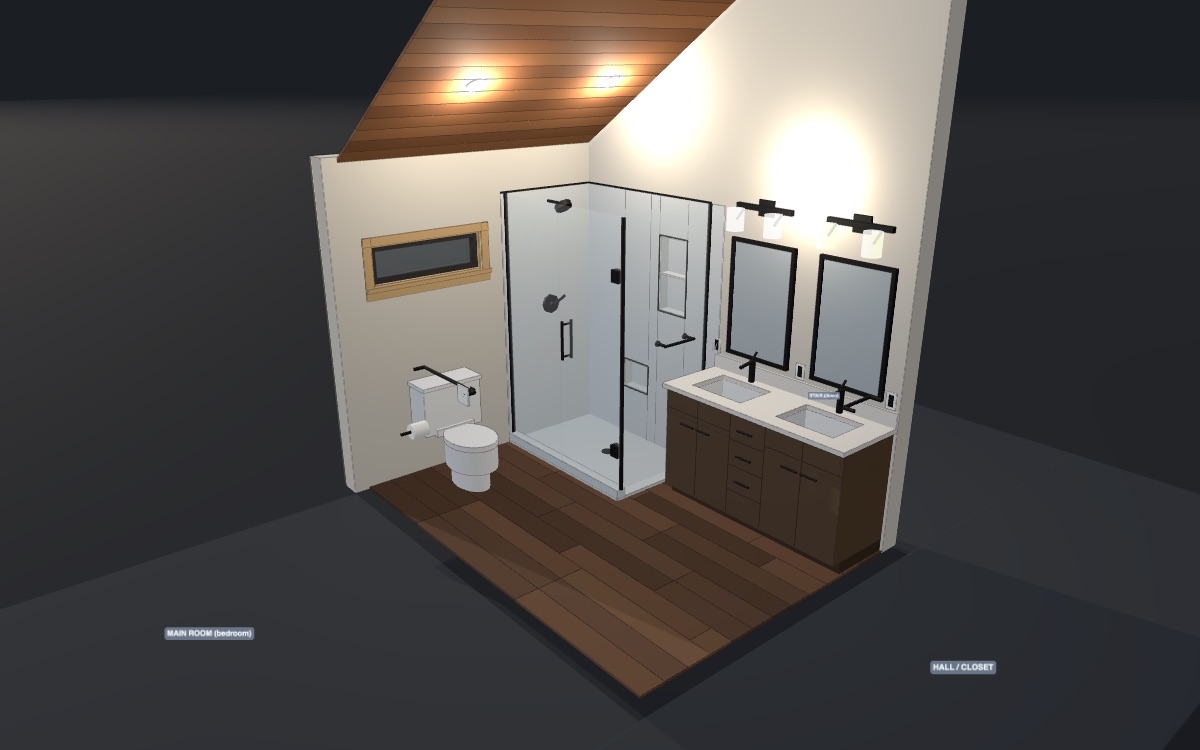
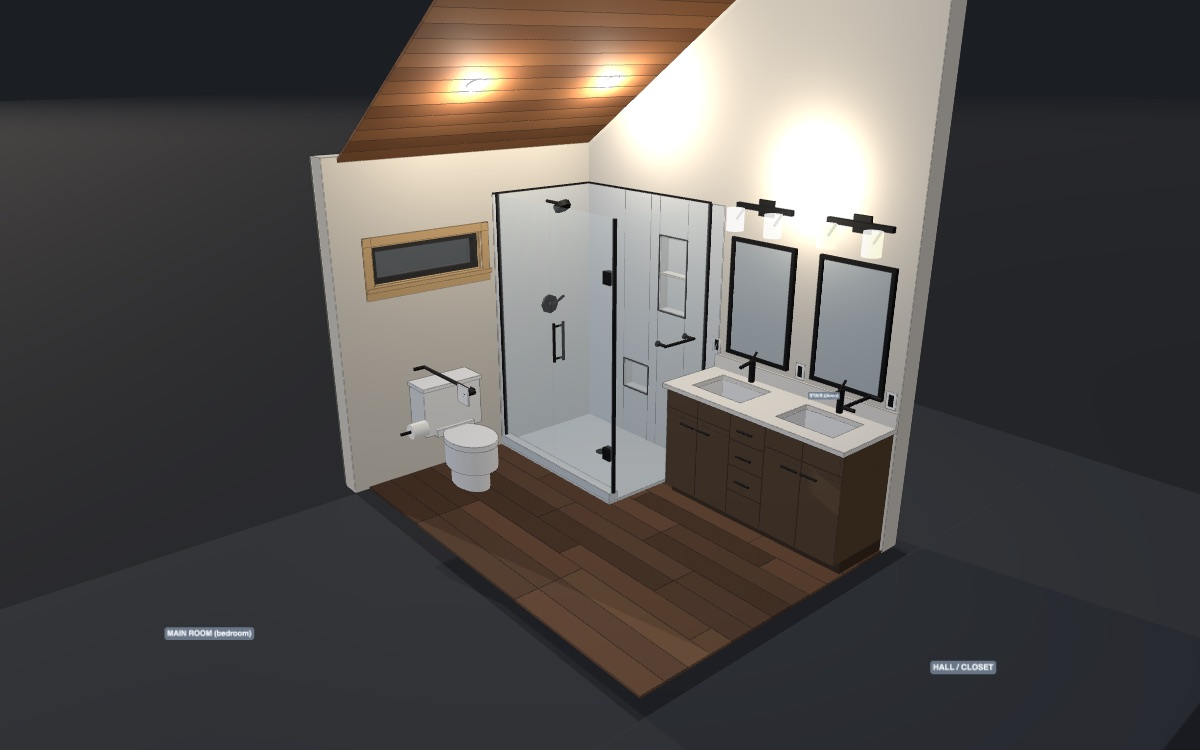
feat: plumbing rough-in layers in the guest bath drawing

Changed region(s): [[0.4008, 0.2453, 0.5242, 0.6747]]

diff --git a/main-bath-option-1.html b/main-bath-option-1.html
@@ -61,7 +61,7 @@
   <a class="panel" id="home" href="https://tredfield.github.io/138-tahoma-cabin/" title="Back to the list of drawings">&larr; All drawings</a>
   <div class="panel" id="header">
     <h1>Main bath &mdash; Option 1: glass shower, north-wall plumbing</h1>
-    <div class="sub">Valve wall removed; the shower grows to a 35 1/2" x 55 1/2" strip behind frameless glass: Moen UT3312 head and valve on the west wall (in the exterior wall with freeze protection, owner decision), Kohler Essential mirrors and Artifacts sconces as a two-mirror option, shaving foot rest (centre) and shampoo niche (by the door) in the stair wall, a 5" cleaning slot to the vanity end, entry door on the south glass (owner 2026-09-09). Toilet and drains unchanged. 138 Tahoma St E, Packwood &middot; one of five layout options for the upper-floor <b>MAIN BATH</b> that remove the framed wall between shower and vanity. Room shell, window F, door 13 RO and the 60" vanity are as built / as drawn in <code>outputs/main-bath-3d.html</code>; everything else is this option's proposal. <b>Orange = assumed, not on any sheet, or flagged for the engineer / plumber.</b> <b>Design option for owner review &mdash; not published. Not engineered &mdash; do not build from this.</b> Spec with clearance table: <code>outputs/main-bath-options/opt-1-glass-north-plumbing-3d-spec.md</code>. Drag to orbit &middot; scroll to zoom &middot; right-drag to pan. &middot; arrow keys (or WASD) walk, PageUp/PageDown change eye height, Shift runs.</div>
+    <div class="sub">Valve wall removed; the shower takes a 38 1/2" x 55 1/2" strip behind frameless glass &mdash; <b>deepened 3" on 2026-09-13</b> to 35 1/8" of flat floor inside the curb (36 5/8" glass CL to back tile), the most window F's casing allows: Moen UT3312 head and valve on the west wall (in the exterior wall with freeze protection, owner decision), Kohler Essential mirrors and Artifacts sconces as a two-mirror option, shaving foot rest (centre) and shampoo niche (by the door) in the stair wall, a 5" cleaning slot to the vanity end, entry door on the south glass (owner 2026-09-09). Toilet and drains unchanged. 138 Tahoma St E, Packwood &middot; one of five layout options for the upper-floor <b>MAIN BATH</b> that remove the framed wall between shower and vanity. Room shell, window F, door 13 RO and the 60" vanity are as built / as drawn in <code>outputs/main-bath-3d.html</code>; everything else is this option's proposal. <b>Orange = assumed, not on any sheet, or flagged for the engineer / plumber.</b> <b>Design option for owner review &mdash; not published. Not engineered &mdash; do not build from this.</b> Spec with clearance table: <code>outputs/main-bath-options/opt-1-glass-north-plumbing-3d-spec.md</code>. Drag to orbit &middot; scroll to zoom &middot; right-drag to pan. &middot; arrow keys (or WASD) walk, PageUp/PageDown change eye height, Shift runs.</div>
   </div>
   <div class="panel" id="legend">
     <h2>Legend</h2>
@@ -75,6 +75,8 @@
     <div class="lg"><span class="sw" style="background:#f5f5f3"></span>Plumbing fixtures</div>
     <div class="lg"><span class="sw" style="background:#1c1c1c"></span>Matte black hardware / trim</div>
     <div class="lg"><span class="sw" style="background:#a9cfe3"></span>Glass</div>
+    <div class="lg"><span class="sw" style="background:#e0483c"></span>Layout centrelines (toilet, shower)</div>
+    <div class="lg"><span class="sw" style="background:#74d0f1"></span>Plumbing rough-in (Show &rarr; Plumbing)</div>
     <div class="lg"><span class="sw" style="background:#c9a46a"></span>Framing (toggle)</div>
     <div class="lg"><span class="sw" style="background:#e07b20"></span>Not on record / sheets disagree</div>
     <div class="lg"><span class="sw" style="background:#5e646c"></span>House context (faded)</div>
@@ -90,6 +92,8 @@
       <label><input type="checkbox" data-layer="floor" checked> LVP floor</label>
       <label><input type="checkbox" data-layer="shower" checked> Shower</label>
       <label><input type="checkbox" data-layer="glass" checked> Glass</label>
+      <label><input type="checkbox" data-layer="cl" checked> Centrelines</label>
+      <label><input type="checkbox" data-layer="plumb"> Plumbing rough-in</label>
       <label><input type="checkbox" data-layer="vanity" checked> Vanity + mirror</label>
       <label><input type="checkbox" data-layer="fixtures" checked> Toilet + accessories</label>
       <label><input type="checkbox" data-layer="elec" checked> Lights + devices</label>
@@ -1574,7 +1578,7 @@ const D = {
   WIN_X1: -41.25, WIN_X2: -4.75, WIN_SILL: 61.5, WIN_HEAD: 73.5,        // window F RO 36 1/2" x 12", sill 61 1/2" -- FIELD 2026-09-08 (A03 drew 3'-0", A04 4'-6")
   DOOR_Z1: 77.0, DOOR_Z2: 107.5, DOOR_HEAD: 84.5, DOOR_W: 30, DOOR_T: 1.375,   // door 13 RO
   // shower
-  SH_X1: 3.0, CURB_W: 3.0, GLASS_X: 4.5, GLASS_H: 79, TILE_H: 84,
+  SH_X1: 0.0, CURB_W: 3.0, GLASS_X: 1.5, GLASS_H: 79, TILE_H: 84,   // owner 2026-09-13: curb line moved 3" south (was 3.0, glass 4.5). Stop is window F's alder casing at x -2 1/4
   // vanity
   VAN_X1: 17.5, CTR_X1: 16.0, VAN_Z1: 66.75, VAN_Z2: 126.75, CTR_Y: 34.75, CTR_T: 1.25,   // 21" cabinet / 22 1/2" counter off the stair wall; 60" cabinet centered in the 61 1/2" zone
   SINK_Z: [81.75, 111.75], SINK_L: 18, SINK_W: 13, SINK_XC: 27.625, FAUCET_X: 36.125,
@@ -1942,19 +1946,56 @@ function showerTrim(x, z, nx, nz, zHead, xHead, L = 'shower') {
   bar(V(hx + nx * 0, 80, hz + nz * 0), V(hx + nx * 7.5, 80, hz + nz * 7.5), 0.5, M.black, L); bar(V(hx + nx * 7.5, 80, hz + nz * 7.5), V(hx + nx * 8.6, 78.6, hz + nz * 8.6), 3.4, M.black, L);   // arm + head
   bar(P(0, 48, 8), P(1.2, 48, 8), 0.6, M.black, L); bar(P(1.2, 48, 8), P(1.2, 72, 8), 0.4, M.black, L);   // slide bar for a handheld
 }
+// ---- layout centrelines (lead, 2026-09-13, owner request) -----------------------------------------------------------
+// Red so they read as layout marks, not as the orange "not on record" flag (owner 2026-09-10: for interiors, flag by
+// label, not by colour). Own layer 'cl' so the Centrelines checkbox toggles them independently of Dimensions.
+const CL_MAT = new THREE.MeshStandardMaterial({ color: 0xe0483c, roughness: .55, emissive: 0x4a0d08, emissiveIntensity: .8 });
+// centreLine(x1, z1, x2, z2, y): long-short-long dashed line on a floor surface. y must clear the surface it lies on
+// (room LVP top = 0.6, shower tiled mud bed top = 1.5), or the dashes disappear inside the slab.
+function centreLine(x1, z1, x2, z2, y = 1.0, L = 'cl') {
+  const dx = x2 - x1, dz = z2 - z1, len = Math.hypot(dx, dz), ux = dx / len, uz = dz / len;
+  const P = d => V(x1 + ux * d, y, z1 + uz * d);
+  const PAT = [7, 2.5, 1.5, 2.5];                                    // long dash, gap, short dash, gap -- repeats
+  for (let d = 0, i = 0; d < len - 0.01; i++) {
+    const seg = Math.min(PAT[i % 4], len - d);
+    if (i % 2 === 0) bar(P(d), P(d + seg), 0.4, CL_MAT, L);
+    d += seg;
+  }
+}
+// clTag(text, x, y, z): small red call-out for a centreline, on the same 'cl' layer
+function clTag(text, x, y, z) { label(text, x, y, z, { layer: 'cl', size: 24, bg: 'rgba(56,12,9,.88)', color: '#ffb3ad' }); }
+// ---- plumbing rough-in layer (owner request 2026-09-13: a Show option the plumber can read on its own) ---------------
+// Same geometry as dim(), but on the 'plumb' layer with a blue label, so ticking "Plumbing rough-in" and leaving
+// "Dimensions" off gives a clean sheet: drain, valve, head, closet flange and lav centrelines and nothing else.
+const PDIM_MAT = new THREE.LineBasicMaterial({ color: 0x74d0f1, transparent: true, opacity: .95 });
+function pdim(p1, p2, text, off = V(0, 0, 0), tickDir = V(0, 1, 0), tick = 4) {
+  const a = p1.clone().add(off), b = p2.clone().add(off), grp = new THREE.Group();
+  grp.add(new THREE.LineSegments(new THREE.BufferGeometry().setFromPoints([a, b,
+    a.clone().addScaledVector(tickDir, tick), a.clone().addScaledVector(tickDir, -tick),
+    b.clone().addScaledVector(tickDir, tick), b.clone().addScaledVector(tickDir, -tick),
+    p1, a, p2, b]), PDIM_MAT));
+  reg(grp, 'plumb');
+  const mid = a.clone().add(b).multiplyScalar(0.5).addScaledVector(tickDir, tick + 3);
+  label(text, mid.x, mid.y, mid.z, { layer: 'plumb', size: 26, bg: 'rgba(8,38,52,.90)', color: '#9fe3ff' });
+  return grp;
+}
+// pnote(text, x, y, z): blue call-out on the same 'plumb' layer
+function pnote(text, x, y, z) { label(text, x, y, z, { layer: 'plumb', size: 24, bg: 'rgba(8,38,52,.90)', color: '#9fe3ff' }); }
 
-// ---- OPTION 1 / 4 shower: 32" x 54 3/4" mud-set tile floor, glass on the south + east lines; HEAD and VALVE (Moen UT3312) on the west (exterior)
+// ---- OPTION 1 / 4 shower: mud-set tile floor, glass on the south + east lines. The south curb line is D.SH_X1 per option
+//      (opt 1: 0.0 = 35 1/8" of flat floor inside the curb, 36 5/8" glass CL to back tile, owner 2026-09-13; opt 4: 3.0 = 32 1/8" / 33 5/8"); HEAD and VALVE (Moen UT3312) on the west (exterior)
 //      wall -- owner 2026-09-09 accepts the valve body + riser in the 2x6 stud cavity with freeze protection (no chase); east glass at z 61.5 leaves a 5" cleaning slot to the
 //      vanity end panel; foot rest (centre bay) + shampoo niche (bay by the door) in the stair wall (owner 2026-09-09) --
 {
-  const L = 'shower', x1 = 3.0, x2 = D.WN_IN, z1 = D.EXT_IN, z2 = 61.5, gx = 4.5, H = 84, zc = z1, zf = z1 + 0.4;   // no chase: zf = tile face of the west wall
+  const L = 'shower', x1 = D.SH_X1, x2 = D.WN_IN, z1 = D.EXT_IN, z2 = 61.5, gx = D.GLASS_X, H = 84, zc = z1, zf = z1 + 0.4;   // no chase: zf = tile face of the west wall
+  const tf = x2 - 0.4, cx = (x1 + D.CURB_W + tf) / 2, cz = (zf + z2 - 0.19) / 2;   // tf = stair-wall tile face; (cx, cz) = centre of the FLAT floor inside the curb -- drain and trim both sit on it
   box(x1, x2, 0, 1.5, zc, z2, M.shTile, L);                                   // tiled floor (mud bed)
-  box(x1, x1 + 3, 0, 4, zc, z2, M.shTile, L);                                  // 3" curb under the south glass
-  cyl(22, 35, 1.5, 1.7, 2, M.black, L);                                        // 2" drain, joist bay 13.5..29.5
+  box(x1, x1 + D.CURB_W, 0, 4, zc, z2, M.shTile, L);                           // 3" curb under the south glass
+  cyl(cx, cz, 1.5, 1.7, 2, M.black, L);                                        // 2" drain, centred on the flat floor; joist bay 13.5..29.5
   box(x1, x2, 0, H, z1, zf, M.shTile, L);                                      // tile: west wall
   // stair-wall niches (owner 2026-09-09): shampoo 12" x 24" (y 48-72) with a shelf, foot rest 12" x 10" (y 18-28); 3 1/2" deep,
   // each inside one 14 1/2" stud bay (studs at z 6.75 + 16n) -- the stair wall is a shear wall, so no stud is cut
-  const NZ = [[40.75, 52.75, 48, 72, true], [24.75, 36.75, 18, 28, false]], xb = x2 + 3.5, tf = x2 - 0.4;   // shampoo in the bay by the door, foot rest in the centre bay
+  const NZ = [[40.75, 52.75, 48, 72, true], [24.75, 36.75, 18, 28, false]], xb = x2 + 3.5;   // shampoo in the bay by the door, foot rest in the centre bay
   box(tf, x2, 0, H, z1, 24.75, M.shTile, L); box(tf, x2, 0, H, 36.75, 40.75, M.shTile, L); box(tf, x2, 0, H, 52.75, z2, M.shTile, L);   // tile: north wall, split
   box(tf, x2, 0, 18, 24.75, 36.75, M.shTile, L); box(tf, x2, 28, H, 24.75, 36.75, M.shTile, L);
   box(tf, x2, 0, 48, 40.75, 52.75, M.shTile, L); box(tf, x2, 72, H, 40.75, 52.75, M.shTile, L);
@@ -1970,18 +2011,19 @@ function showerTrim(x, z, nx, nz, zHead, xHead, L = 'shower') {
   label('Foot rest 12" x 10" x 3 1/2", bottom 18", centre bay\n(alt. 6" projecting tiled block if 3 1/2" feels shallow)', 36, 34, 30.75, NOTE);
   box(x2 - 0.4, x2, 0, H, z2, D.VAN_Z1, M.shTile, L);                          // tile carried across the 5" slot to the vanity end panel
   box(x1, x2, H, H + 0.5, z1, zf + 0.1, M.black, L, false); box(x2 - 0.5, x2, H, H + 0.5, z1, z2, M.black, L, false);   // edge trim
-  // glass: south line -- fixed z 6.6..33 + 28" door z 33.4..61.1 hinged on the corner post at z 61.5; east line -- fixed x 3.4..38.1
+  // glass: south line -- fixed z 6.6..33 + 28" door z 33.4..61.1 hinged on the corner post at z 61.5, both standing on the 4" curb;
+  // east line -- one fixed panel x (x1+0.4)..38.1. There is NO curb on the east line, so that panel runs down to the tiled floor (y 1.5), not to curb top.
   glassPanel(gx - 0.19, gx + 0.19, 4, H, zf + 0.2, 33); glassPanel(gx - 0.19, gx + 0.19, 4, H, 33.4, z2 - 0.6);
-  glassPanel(x1 + 0.4, x2 - 0.4, 4, H, z2 - 0.19, z2 + 0.19);
+  glassPanel(x1 + 0.4, x2 - 0.4, 1.5, H, z2 - 0.19, z2 + 0.19);
   box(gx - 0.5, gx + 0.5, 4, H, zf, zf + 0.6, M.black, 'glass');                           // wall channel, window wall
-  box(x2 - 1.0, x2 - 0.4, 4, H, z2 - 0.5, z2 + 0.5, M.black, 'glass');                     // wall channel, north end of the east panel
+  box(x2 - 1.0, x2 - 0.4, 1.5, H, z2 - 0.5, z2 + 0.5, M.black, 'glass');                   // wall channel, north end of the east panel
   cyl(gx, z2, 4, H, 0.6, M.black, 'glass');                                                // corner post
   for (const y of [14, 66]) box(gx - 1.1, gx + 1.1, y, y + 3.5, z2 - 3.6, z2 - 0.6, M.black, 'glass');   // hinges at the post
   for (const sx of [-1, 1]) { bar(V(gx + sx * 1.7, 38, 36.5), V(gx + sx * 1.7, 50, 36.5), 0.45, M.black, 'glass'); for (const y of [39, 49]) bar(V(gx, y, 36.5), V(gx + sx * 1.7, y, 36.5), 0.35, M.black, 'glass'); }   // pull at the free edge
-  // west-wall tile face (z = zf): valve x 21 y 46, head x 21 y 80 (arm 7.5") -- Moen UT3312, facing east
-  bar(V(21, 46, zf), V(21, 46, zf + 1.0), 3.2, M.black, L); bar(V(21, 46, zf + 1.0), V(21, 46, zf + 2.2), 0.9, M.black, L); bar(V(21, 46, zf + 2.2), V(25.5, 48.5, zf + 2.6), 0.45, M.black, L);   // valve + lever
-  bar(V(21, 80, zf), V(21, 80, zf + 7.5), 0.5, M.black, L); bar(V(21, 80, zf + 7.5), V(21, 78.6, zf + 8.6), 2.75, M.black, L);   // head (UT3312 single-function)
-  label('Moen UT3312 Belfield M-CORE 3-Series trim (owner 2026-09-09): head + valve on the WEST (exterior) wall.\nOwner accepts the valve body + riser in the 2x6 cavity: strap to the warm side of the studs, keep the 2" closed-cell\n+ batt behind, add a blow-out fitting for winterizing (UPC 312.6). Shower-only trim: a handheld would need a UT3313 transfer valve', 21, 92, zf, FLAG);
+  // west-wall tile face (z = zf): valve and head both on the pan's depth centreline cx (y 46 / y 80, arm 7.5") -- Moen UT3312, facing east
+  bar(V(cx, 46, zf), V(cx, 46, zf + 1.0), 3.2, M.black, L); bar(V(cx, 46, zf + 1.0), V(cx, 46, zf + 2.2), 0.9, M.black, L); bar(V(cx, 46, zf + 2.2), V(cx + 4.5, 48.5, zf + 2.6), 0.45, M.black, L);   // valve + lever
+  bar(V(cx, 80, zf), V(cx, 80, zf + 7.5), 0.5, M.black, L); bar(V(cx, 80, zf + 7.5), V(cx, 78.6, zf + 8.6), 2.75, M.black, L);   // head (UT3312 single-function)
+  label('Moen UT3312 Belfield M-CORE 3-Series trim (owner 2026-09-09): head + valve on the WEST (exterior) wall.\nOwner accepts the valve body + riser in the 2x6 cavity: strap to the warm side of the studs, keep the 2" closed-cell\n+ batt behind, add a blow-out fitting for winterizing (UPC 312.6). Shower-only trim: a handheld would need a UT3313 transfer valve', cx, 92, zf, FLAG);
   // through-glass 12" hand-towel bar on the room side of the east panel, x 18..30, y 46 -- aligned with the hall-wall bar (owner 2026-09-09);
   // this stretch of glass faces the vanity end panel across the 5" slot, so the towel hangs 2" off the cabinet below counter height
   for (const px of [18.5, 29.5]) { bar(V(px, 46, z2 - 0.7), V(px, 46, z2 + 3.0), 0.5, M.black, 'glass'); bar(V(px, 46, z2 - 0.7), V(px, 46, z2 - 0.2), 0.95, M.black, 'glass'); }
@@ -1989,6 +2031,7 @@ function showerTrim(x, z, nx, nz, zHead, xHead, L = 'shower') {
   label('Through-glass 12" hand-towel bar for the left sink, aligned with the hall-wall bar (owner 2026-09-09)\nholes drilled before tempering -- order with the panel; towel hangs in the 5" slot, 2" off the cabinet', 24, 40, z2 + 4, FLAG);
   arc(gx, z2, 28, 180, 270);                                                    // door swing, out toward the room centre
   label('5" cleaning slot between the glass and the vanity end panel\n(owner 2026-09-09); stair-wall tile runs through it', 22, 88, 64, NOTE);
+  label('The east glass line has NO curb -- it stands in a channel on the tiled floor.\nThe mud bed must slope away from it to the drain and the slot needs a\nwaterproof edge where the tile meets the LVP. Detail not drawn -- tile setter', 12, 22, z2 + 6, FLAG);
 }
 
 // ---- vanity: 60" double, plywood cabinet (0661), counter + undermount sinks, Moen 6402, mirror, Bellevue bar -------
@@ -2144,7 +2187,8 @@ function showerTrim(x, z, nx, nz, zHead, xHead, L = 'shower') {
 
 // ---- labels -----------------------------------------------------------------------------------------------------------
 label('OPTION 1 -- glass shower, north-wall plumbing\nvalve wall removed; toilet + drains unchanged', -10, 76, 80);
-label('Shower 32" x 54 3/4" inside, mud-set tile\n1,745 sq in; 30" circle fits; glass to 7\'-0"', 22, 96, 30, NOTE);
+label('Shower deepened 3" on 2026-09-13: 35 1/8" of flat floor inside the curb (36 5/8" glass CL to back tile)\nx 54 3/4" long, mud-set tile; 1,927 sq in; well over M01 note 3\'s 30" x 30" rough pan; glass to 7\'-0"', 22, 96, 30, NOTE);
+label('The 3" came off the window wall: the curb line moves from x 3 to x 0, leaving 2 1/4" of painted\nwall to window F\'s alder casing (casing north edge x -2 1/4). That reveal is the limit -- FIELD-VERIFY\nthe casing width before the tile setter sets the curb', 0, 30, 16, FLAG);
 label('Supplies rise in this 2x6 stair wall beside the lav supplies and cross into the\nwest wall at the corner (drilled studs, 1/2" PEX); drain in bay 13.5..29.5', 34, 60, 46, NOTE);
 label('Door on the south glass, hinged at the corner post,\nopens out toward the room centre (26" clear)', 4.5, 60, 52, NOTE);
 label('Window F  RO 36 1/2" x 12", sill 61 1/2" (field)\noutside the shower; tempered recommended (~63" bottom edge)', -23, 80, 3, FLAG);
@@ -2160,18 +2204,70 @@ label('1x6 T&G ceiling, 8:12 dormer -- shower open to it above 7\'-0"', -4, yc(6
 dim(V(D.WS_IN, 2, D.WE_IN + 8), V(D.WN_IN, 2, D.WE_IN + 8), '7\'-3" clear', V(0, 0, 0), V(0, 1, 0));
 dim(V(D.WS_IN - 10, 2, D.EXT_IN), V(D.WS_IN - 10, 2, D.WE_IN), '10\'-1 1/2" clear', V(0, 0, 0), V(0, 1, 0));
 dim(V(D.WS_IN, 2, 20), V(D.WC_X, 2, 20), '25 1/2" WC CL to wall (min 15)', V(0, 0, 0), V(0, 1, 0));
-dim(V(D.WC_X, 2, 20), V(4.5, 2, 20), '27 1/2" WC CL to glass (min 15)', V(0, 0, 0), V(0, 1, 0));
+dim(V(D.WC_X, 2, 42), V(D.SH_X1, 2, 42), '23" WC CL to curb face (min 15, NKBA 18)', V(0, 0, 0), V(0, 1, 0));
 dim(V(D.WC_X, 2, 34), V(D.WC_X, 2, D.DOOR_Z1), '43" in front of WC (min 24)', V(0, 0, 0), V(0, 1, 0));
-dim(V(6, 6, 36), V(37.9, 6, 36), '31.9" shower inside', V(0, 0, 0), V(0, 1, 0));
-dim(V(20, 6, 6.6), V(20, 6, 61.3), '54 3/4" shower inside', V(0, 0, 0), V(0, 1, 0));
+dim(V(D.SH_X1 + D.CURB_W, 6, 18), V(D.WN_IN - 0.4, 6, 18), '35 1/8" flat floor inside the curb', V(0, 0, 0), V(0, 1, 0));
+dim(V(D.GLASS_X, 6, 50), V(D.WN_IN - 0.4, 6, 50), '36 5/8" glass CL to back tile', V(0, 0, 0), V(0, 1, 0));
+dim(V(13, 6, 6.6), V(13, 6, 61.3), '54 3/4" shower inside', V(0, 0, 0), V(0, 1, 0));
 dim(V(30, 6, 61.7), V(30, 6, D.VAN_Z1), '5" slot', V(0, 0, 0), V(0, 1, 0));
 dim(V(37, 74, 40.75), V(37, 74, 52.75), 'niche 12"', V(0, 0, 0), V(0, 1, 0));
 dim(V(37, 48, 54.5), V(37, 72, 54.5), '24" (48"-72")', V(0, 0, 0), V(0, 0, 1));
 dim(V(37, 18, 23), V(37, 28, 23), 'foot rest 10" (18"-28")', V(0, 0, 0), V(0, 0, 1));
-dim(V(4.5, 6, 33.4), V(4.5, 6, 61.1), 'door 28" (26" clear, min 22)', V(0, 0, 0), V(0, 1, 0));
+dim(V(D.GLASS_X, 6, 33.4), V(D.GLASS_X, 6, 61.1), 'door 28" (26" clear, min 22)', V(0, 0, 0), V(0, 1, 0));
 dim(V(-14, 2, 96), V(D.CTR_X1, 2, 96), '30" in front of vanity (NKBA)', V(0, 0, 0), V(0, 1, 0));
 dim(V(D.CTR_X1 - 4, D.CTR_Y + 6, D.VAN_Z1), V(D.CTR_X1 - 4, D.CTR_Y + 6, D.VAN_Z2), '60"', V(0, 0, 0), V(0, 1, 0));
 dim(V(D.WIN_X2 + 8, 0, D.EXT_IN + 1), V(D.WIN_X2 + 8, D.WIN_SILL, D.EXT_IN + 1), 'sill 61 1/2"', V(0, 0, 0), V(0, 0, 1));
+
+// ---- layout centrelines (owner request 2026-09-13) -- their own 'cl' layer, so Show -> Centrelines toggles them
+//      independently of Dimensions. y clears the surface each one lies on: 0.9 over the LVP (top 0.6), 1.7 over the
+//      shower's tiled mud bed (top 1.5).
+const SHCX = (D.SH_X1 + D.CURB_W + D.WN_IN - 0.4) / 2;              // 20 9/16 -- centre of the flat floor, depth
+const SHCZ = (D.EXT_IN + 0.4 + 61.5 - 0.19) / 2;                    // 33 7/8  -- centre of the flat floor, length
+centreLine(D.WC_X, D.EXT_IN + 0.2, D.WC_X, 47, 0.9);                // toilet CL, run out past the bowl front
+centreLine(D.WC_X - 15, 18, D.WC_X + 15, 18, 0.9);                  // closet-flange CL: 12" rough-in off the finished wall (z 6 + 12)
+clTag('TOILET CL  x = -23 -- and it is also WINDOW F\'s CL\n25 1/2" off the bedroom wall, 23" to the shower curb face\ncross mark = closet flange, 12" rough-in off the finished wall', D.WC_X, 14, 50);
+centreLine(SHCX, D.EXT_IN + 0.6, SHCX, 61.1, 1.7);                  // shower CL, depth
+centreLine(D.SH_X1 + D.CURB_W + 0.3, SHCZ, D.WN_IN - 0.7, SHCZ, 1.7);   // shower CL, length
+clTag('SHOWER CL -- drain, head and valve are all on it\n(the head/valve moved 7/16" to land on it)', 32, 24, 17);
+bar(V(32, 22, 17), V(SHCX, 2.0, SHCZ), 0.13, CL_MAT, 'cl');                 // leader from the call-out down to the intersection
+
+// ---- plumbing rough-in (owner request 2026-09-13): own 'plumb' layer, OFF by default. Plumber's sheet =
+//      ?view=top&show=plumb  (Dimensions stays off, Centrelines stays on). Every tie is to a STUD face, because
+//      at rough-in there is no finish to measure from; every height is ABOVE SUBFLOOR.
+const STUD_N = D.WN_IN + 0.5, STUD_S = D.WS_IN - 0.5, STUD_W = D.EXT_STUD_IN, STUD_E = D.WE_IN + 0.5;   // x 39 / x -49 / z 5.5 / z 128
+pdim(V(SHCX, 3, SHCZ), V(STUD_N, 3, SHCZ), 'DRAIN  18 7/16" off stair-wall studs', V(0, 0, 0), V(0, 1, 0));
+pdim(V(SHCX, 3, STUD_W), V(SHCX, 3, SHCZ), 'DRAIN  28 3/8" off west-wall studs', V(0, 0, 0), V(0, 1, 0));
+pdim(V(D.WC_X, 3, STUD_W), V(D.WC_X, 3, 18), 'WC FLANGE  12 1/2" off west-wall studs (12" off finish)', V(0, 0, 0), V(0, 1, 0));
+pdim(V(STUD_S, 3, 18), V(D.WC_X, 3, 18), 'WC FLANGE  26" off partition studs', V(0, 0, 0), V(0, 1, 0));
+pdim(V(20, 3, D.SINK_Z[0]), V(20, 3, STUD_E), 'LAV 1  46 1/4" off hall-wall studs', V(0, 0, 0), V(0, 1, 0));
+pdim(V(20, 3, D.SINK_Z[1]), V(20, 3, STUD_E), 'LAV 2  16 1/4" off hall-wall studs', V(0, 0, 0), V(0, 1, 0));
+pdim(V(SHCX - 7, 0, D.EXT_IN + 1), V(SHCX - 7, 46, D.EXT_IN + 1), 'VALVE 46" a.s.f.', V(0, 0, 0), V(0, 0, 1));
+pdim(V(SHCX + 7, 0, D.EXT_IN + 1), V(SHCX + 7, 80, D.EXT_IN + 1), 'HEAD 80" a.s.f.', V(0, 0, 14), V(0, 0, 1));
+// notes: kept to ~58 characters a line. A label sprite's width maps to the X axis in the plan view, so a long
+// single line becomes an 8-foot-wide banner that buries the dimensions underneath it.
+pnote('HOW TO READ THIS LAYER\n'
+    + 'Tick "Plumbing rough-in" alone: leave Dimensions off, Centrelines on.\n'
+    + 'Plan ties are to STUD faces, not finish -- x off the stair wall (39)\n'
+    + 'or the bedroom partition (-49); z off the west wall (5 1/2) or the\n'
+    + 'hall wall (128).  "a.s.f." = ABOVE SUBFLOOR: the shower\'s tiled mud\n'
+    + 'bed is 1 1/2" higher, so take 1 1/2" off anything set to the pan.\n'
+    + 'Drain, valve and head all sit on the shower\'s depth centreline.', -30, 62, 112);
+pnote('SHOWER SUPPLIES  1/2" H+C\n'
+    + 'Rise in the stair wall beside the lav supplies, run west at y ~36\n'
+    + 'through drilled studs to the NW corner, then into the 2x6 exterior\n'
+    + 'cavity to the valve.  OWNER-ACCEPTED EXCEPTION 2026-09-09: the valve\n'
+    + 'body and riser sit in the EXTERIOR wall -- strap to the warm side of\n'
+    + 'the studs, keep the 2" closed-cell + batt behind them, and add a\n'
+    + 'blow-out fitting so the branch drains for winter (UPC 312.6).\n'
+    + 'No handheld: UT3312 is shower-only trim.', -30, 54, 92);
+pnote('TRAP ARM AND VENT\n'
+    + 'Drain to M01\'s west-wall PLUMBING VENT stack at x -1 is ~21 1/2"\n'
+    + '+ ~31" = ~52 1/2", inside the 60" limit for a 2" arm (verify).\n'
+    + 'That stack now sits 1" outside the shower tile edge -- confirm it\n'
+    + 'clears the curb-end framing and the new valve riser before rough-in.\n'
+    + 'Toilet and lav waste runs are UNCHANGED from M01.', -30, 46, 74);
+pnote('NOT ON ANY SHEET -- plumber\'s standard:\n'
+    + 'WC supply stop, lav stops, lav drain heights.', -30, 38, 60);
 
 // ===== END EDIT: GEOMETRY =====
 

diff --git a/guest-bath.html b/guest-bath.html
@@ -81,6 +81,7 @@
     M01 fan and the E01 recessed can land 9" apart; the register sits under the open door; the shower valve and arm heights in the drawing are
     measured from subfloor (46 1/2" and 78 1/2" above the shower's tiled floor) and the valve sits behind the fixed glass panel, out of reach from outside. <b>Fixtures match the main bath</b> (owner
     2026-09-10): Moen UT3312 shower trim, Moen 6402 faucet, Kohler Artifacts 72582 sconce over a Kohler K-26052 mirror.
+    <b>Plumbing rough-in</b> sits on two Show checkboxes so it reads on its own with the architectural dimensions off: <b>Plumbing: wall</b> (every stub, the valve, the arm, the vent and their heights &mdash; use the <b>Plumbing</b> view, an elevation of the one wall they all land on, with Framing ticked and the finishes off, which is the condition the plumber is actually standing in) and <b>Plumbing: floor</b> (the closet flange and the shower drain &mdash; use the <b>Plan</b> view). They are split because heights collapse onto the floor points in plan and the labels pile up. Dimensions are to <b>finished</b> faces &mdash; add 1/2" off bare studs, 7/8" inside the shower &mdash; and heights are above the finished floor (0.6" LVP in the room, 1 1/2" tile in the shower). <b>Set the valve's plaster guard for a 7/8" finish</b>, not the 1/2" gyp the rest of that wall gets, and order the Moen M-CORE valve body to match the UT3312 trim. From M01's own notes: listed anti-scald / pressure-balance valve, 120&deg;F max (BATHROOM 4); rigidly support the head fitting (1); flange on corrosion-resistant fasteners (6); closet ring to vent 6'-0" maximum (7) &mdash; the flange is 42" from the vent; 18 ga nail plates wherever pipe comes within 1" of a framing face (PLUMBING 1). A flange set on the subfloor finishes ~5/8" below the LVP, so plan a spacer. <b>Stub heights are on no sheet</b> (18" lav drain, 22" lav supplies, 8" WC supply are typical practice) &mdash; the plumber's own standard should win. <b>Two things are not settled, both upstream of the DWV:</b> the full-width no-chase shower is still only this drawing's default rather than a decision confirmed with Elevate, and it sets the drain position; and the shower valve sits behind <i>fixed</i> glass about 35" from the door opening, so the water cannot be turned on from outside the enclosure.
     Finishes (dark rustic LVP, knotty alder, light quartz) carry the owner's main-bath / kitchen picks and are assumptions
     here; the BoD leaves the bath cabinet TBD. No site photos or field tape of this room yet -- A02's own <i>5'-3 1/4" FIELD VERIFY</i>
     on the alcove is open. <b>Not engineered &mdash; do not build from this.</b>
@@ -98,6 +99,7 @@
     <div class="lg"><span class="sw" style="background:#1c1c1c"></span>Matte black hardware / trim</div>
     <div class="lg"><span class="sw" style="background:#a9cfe3"></span>Glass</div>
     <div class="lg"><span class="sw" style="background:#c9a46a"></span>Framing (toggle)</div>
+    <div class="lg"><span class="sw" style="background:#2fb8d4"></span>Plumbing rough-in (drains, supplies, valve, vent)</div>
     <div class="lg"><span class="sw" style="background:#e07b20"></span>Not on record / sheets disagree</div>
     <div class="lg"><span class="sw" style="background:#5e646c"></span>House context (faded)</div>
   </div>
@@ -120,6 +122,8 @@
       <label><input type="checkbox" data-layer="context" checked> House context</label>
       <label><input type="checkbox" data-layer="label"> Labels</label>
       <label><input type="checkbox" data-layer="dim"> Dimensions</label>
+      <label><input type="checkbox" data-layer="plumb"> Plumbing: wall</label>
+      <label><input type="checkbox" data-layer="plumbFl"> Plumbing: floor</label>
       <label><input type="checkbox" data-layer="caption"> Caption</label>
     </div>
     <div class="row fold" id="variants">
@@ -135,6 +139,7 @@
       <button data-view="shower">Shower</button>
       <button data-view="kitchen">From the kitchen</button>
       <button data-view="top">Plan</button>
+      <button data-view="plumbing">Plumbing</button>
       <button data-view="framing">Framing</button>
       <button id="legendbtn" title="Show or hide the legend">Legend</button>
     </div>
@@ -1670,6 +1675,7 @@ const M = {
   lvl:      new THREE.MeshStandardMaterial({ color: 0xb08a55, roughness: .8 }),
   shade:    new THREE.MeshStandardMaterial({ color: 0xfff6e0, emissive: 0xffe7b0, emissiveIntensity: 1.2, transparent: true, opacity: .85 }),
   lens:     new THREE.MeshStandardMaterial({ color: 0xffffff, emissive: 0xfff4dc, emissiveIntensity: 1.6 }),
+  plumb:    new THREE.MeshStandardMaterial({ color: 0x2fb8d4, roughness: .4, emissive: 0x0e4a57, emissiveIntensity: .9 }),   // plumbing rough-in points (Show: Plumbing rough-in)
   flag:     new THREE.MeshStandardMaterial({ color: 0xe07b20, roughness: .7 }),    // pending / not on record
   concept:  new THREE.MeshStandardMaterial({ color: 0xd9a441, roughness: .85 }),   // placeholder scheme
   ghost:    new THREE.MeshStandardMaterial({ color: 0x5e646c, roughness: .95, transparent: true, opacity: .4 }),
@@ -2182,6 +2188,67 @@ dim(V(D.DOOR_X1, D.DOOR_HEAD + 6, D.HW_IN), V(D.DOOR_X2, D.DOOR_HEAD + 6, D.HW_I
 dim(V(D.PW_S, D.DOOR_HEAD + 12, D.HW_IN), V(D.DOOR_X1, D.DOOR_HEAD + 12, D.HW_IN), '3\'-6 1/2" (A02 chain)', V(0, 0, 0), V(0, 1, 0));
 dim(V(D.PW_IN + 1, 0, 40), V(D.PW_IN + 1, D.CEIL, 40), '9\'-0"', V(0, 0, 0), V(0, 0, 1));
 dim(V(0, 108, 40), V(0, 120, 40), '1\'-0" floor', V(0, 0, 0), V(0, 0, 1));
+// ---- plumbing rough-in (Show: "Plumbing: wall" and "Plumbing: floor") ----------------------------------------------------------
+//      A plumber's-only set, split onto two checkboxes because heights collapse onto the floor points in plan and the labels pile up:
+//        "Plumbing: wall"  -- every stub, the valve, the arm and the vent, with their heights. Read it on the Plumbing view.
+//        "Plumbing: floor" -- the closet flange and the shower drain with their plan dimensions. Read it on the Plan view.
+//      Every stub in this room lands on the ONE plumbing wall (gridline 2, 2x6 per S3.2 note 9). All dimensions are to FINISHED
+//      faces with the bare-stud figure alongside; heights are above the FINISHED floor (LVP 0.6" room / tile 1.5" shower). Stub
+//      HEIGHTS are not on any sheet (spec open item 15) -- typical practice, and the plumber's own standard should win.
+{
+  const W = 'plumb', FL = 'plumbFl';
+  const PM = new THREE.LineBasicMaterial({ color: 0x5fe3ff, transparent: true, opacity: .95 });
+  const ps = L => ({ layer: L, size: 26, bg: 'rgba(6,42,52,.92)', color: '#9ff0ff' });
+  const pf = L => ({ layer: L, size: 26, bg: 'rgba(72,38,4,.92)', color: '#ffc98a' });
+  const FF = D.FLOOR_T, SF = D.PAN_T;                                   // finished floor: room LVP / shower tile
+  const WF = D.PW_IN, TF = D.PW_N + D.TILE_T, BT = D.EW_S1 - D.TILE_T;   // plumbing wall dry face / shower tile face / back tile
+  // a copy of dim() that takes a layer, so the architectural dimensions keep their own checkbox
+  const pdim = (L, p1, p2, text, off = V(0, 0, 0), tickDir = V(0, 1, 0), tick = 4) => {
+    const a = p1.clone().add(off), b = p2.clone().add(off);
+    const pts = [a, b, a.clone().addScaledVector(tickDir, tick), a.clone().addScaledVector(tickDir, -tick),
+                 b.clone().addScaledVector(tickDir, tick), b.clone().addScaledVector(tickDir, -tick), p1, a, p2, b];
+    reg(new THREE.LineSegments(new THREE.BufferGeometry().setFromPoints(pts), PM), L);
+    const m = a.clone().add(b).multiplyScalar(0.5).addScaledVector(tickDir, tick + 3);
+    label(text, m.x, m.y, m.z, ps(L));
+  };
+
+  // --- in the floor: the closet flange and the shower drain (read on the Plan view) ----------------------------------------
+  cyl(15.25, D.WC_Z, FF - 0.2, FF + 1.2, 3.5, M.plumb, FL);                             // closet flange, 12" rough-in
+  cyl(37.125, 134.5, SF - 0.3, SF + 0.7, 2.0, M.plumb, FL);                              // shower drain (no-chase tiled floor)
+  pdim(FL, V(WF, FF, D.WC_Z), V(15.25, FF, D.WC_Z), 'WC flange CL 12" off the FINISHED wall = 12 1/2" off the studs', V(0, 0.6, 0), V(0, 0, 1));
+  pdim(FL, V(15.25, FF, D.HW_IN), V(15.25, FF, D.WC_Z), 'WC flange CL 64 1/2" off the finished hall wall', V(0, 0.6, 0), V(1, 0, 0));
+  pdim(FL, V(TF, SF, 134.5), V(37.125, SF, 134.5), 'Shower drain 33 1/2" off the plumbing-wall tile', V(0, 0.6, 0), V(0, 0, 1));
+  pdim(FL, V(37.125, SF, 134.5), V(37.125, SF, BT), 'and 15 1/8" off the back tile', V(0, 0.6, 0), V(1, 0, 0));
+  pdim(FL, V(0, 0.2, D.WC_Z), V(0, 0.2, 140), 'Flange to vent 42"  --  M01 note 7 allows 6\'-0" max', V(5, 0, 0), V(0, 1, 0));
+  label('FLOOR POINTS -- dimensions to FINISHED faces (add 1/2" off bare studs, 7/8" in the shower).\n'
+      + 'A flange set on the subfloor finishes ~5/8" below the LVP: use a spacer so the ring sits flush or just above.', 46, 6, 74, ps(FL));
+
+  // --- stubs out of the plumbing wall (read on the Plumbing view) ----------------------------------------------------------
+  bar(V(WF, FF + 18, D.SINK_ZC), V(WF + 4, FF + 18, D.SINK_ZC), 0.78, M.plumb, W);       // lav drain, 1 1/2"
+  for (const z of [D.SINK_ZC - 4, D.SINK_ZC + 4]) bar(V(WF, FF + 22, z), V(WF + 3, FF + 22, z), 0.42, M.plumb, W);   // lav supplies
+  bar(V(WF, FF + 8, D.WC_Z - 6), V(WF + 3, FF + 8, D.WC_Z - 6), 0.42, M.plumb, W);       // WC supply, vanity side
+  bar(V(TF, D.VALVE_Y, D.TRIM_Z), V(TF + 1.6, D.VALVE_Y, D.TRIM_Z), 1.9, M.plumb, W);    // mixing-valve body / mud ring
+  bar(V(TF, D.ARM_Y, D.TRIM_Z), V(TF + 2.0, D.ARM_Y, D.TRIM_Z), 0.62, M.plumb, W);       // shower-arm drop-ear
+  cyl(0, 140, 0, D.PLATE_TOP, 1.5, M.flag, W);                                           // PLUMBING VENT per M01 detail 4 (inside the 2x6)
+  bar(V(TF, 30, 140), V(TF + 1.4, 30, 140), 1.1, M.flag, W);                             // ... marked on the face so the bay is findable
+
+  pdim(W, V(WF, FF + 18, D.HW_IN), V(WF, FF + 18, D.SINK_ZC), 'Lav drain CL 24" off the finished hall wall', V(6, 0, 0), V(0, 1, 0));
+  pdim(W, V(WF, FF, D.SINK_ZC), V(WF, FF + 18, D.SINK_ZC), 'Lav drain CL 18" above the finished floor', V(14, 0, 0), V(0, 0, 1));
+  pdim(W, V(WF, FF + 22, D.SINK_ZC - 4), V(WF, FF + 22, D.SINK_ZC + 4), 'Lav supplies 8" apart (4" each side of the drain), 22" AFF', V(6, 8, 0), V(0, 1, 0));
+  pdim(W, V(WF, FF + 8, D.WC_Z - 6), V(WF, FF + 8, D.WC_Z), 'WC supply 6" off the flange CL', V(6, 0, 0), V(0, 1, 0));
+  pdim(W, V(WF, FF, D.WC_Z - 6), V(WF, FF + 8, D.WC_Z - 6), '8" AFF', V(14, 0, 0), V(0, 0, -1));
+  pdim(W, V(TF, SF, D.TRIM_Z), V(TF, D.VALVE_Y, D.TRIM_Z), 'Valve CL 46 1/2" above the SHOWER floor (the drawing carries 48" above subfloor)', V(10, 0, 0), V(0, 0, 1));
+  pdim(W, V(TF, D.VALVE_Y, D.TRIM_Z), V(TF, D.ARM_Y, D.TRIM_Z), 'Arm 32" above the valve = 78 1/2" above the shower floor', V(10, 0, 0), V(0, 0, 1));
+  pdim(W, V(TF, 88, D.TRIM_Z), V(TF, 88, BT), 'Valve + arm CL 17 1/8" off the back tile', V(6, 0, 0), V(0, 1, 0));
+
+  label('ALL DIMENSIONS TO FINISHED FACES\n'
+      + 'Add 1/2" off bare studs; 7/8" in the shower (backer + tile)\n'
+      + 'Heights above FINISHED floor: 0.6" LVP / 1 1/2" shower tile\n'
+      + 'Stub heights are typical practice, not sheet reads', 30, 100, 64, ps(W));
+  label('Valve guard set for a 7/8" finish, not 1/2" gyp', 22, 62, D.TRIM_Z, pf(W));
+  label('VENT per M01, z ~140 +/-3"\nhold north in the cavity -- a 2X12\nruns over this wall\n(riser reads with this wall off)', 0, 34, 146, pf(W));
+}
+
 // ===== END EDIT: GEOMETRY =====
 
 // --- UI wiring (do not rewrite; the layer/view names come from the HTML + VIEWS above) -----------
@@ -2209,6 +2276,7 @@ const VIEWS = {
   shower:   { pos: [36, 66, 40],    tgt: [33, 40, 140], fov: 64 },
   kitchen:  { pos: [175, 80, 92],   tgt: [30, 46, 92],  fov: 52 },
   top:      { pos: [37, 330, 92.5], tgt: [37, 0, 92],   fov: 40 },
+  plumbing: { pos: [188, 54, 92],   tgt: [3, 42, 92],   fov: 44 },   // elevation of the plumbing wall -- every stub is on this one wall
   framing:  { pos: [-60, 185, 270], tgt: [37, 66, 92],  fov: 46 },
 };
 // ===== END EDIT: VIEWS =====

diff --git a/index.html b/index.html
@@ -162,16 +162,18 @@
       <div class="body">
         <h3><a href="main-bath-option-1.html">Main bath &mdash; option 1: glass shower, stair-wall plumbing</a></h3>
         <p>The layout option under review next to the drawing above: the framed wall between shower and vanity is
-        gone, the shower grows to a 35 1/2" x 55 1/2" strip behind frameless glass: Moen Belfield head and valve on the west wall, shaving foot rest and shampoo niche in the stair wall, a 5" cleaning slot between
-        the glass and the vanity end, and the door swings out from the glass corner. Drawn with the two Kohler Essential mirrors and Artifacts sconces she picked; a Mirrors switch shows the one-wide-mirror alternative. Toilet, window and drains stay put. Orange marks
-        the assumptions; the Plan view carries every code clearance as a dimension.</p>
-        <span class="meta">Updated 2026-09-09 &middot; 8 camera views &middot; layout option, not yet chosen &middot; not engineered</span>
+        gone, the shower takes a 38 1/2" x 55 1/2" strip behind frameless glass: Moen Belfield head and valve on the west wall, shaving foot rest and shampoo niche in the stair wall, a 5" cleaning slot between
+        the glass and the vanity end, and the door swings out from the glass corner. <b>Deepened 3" on 2026-09-13</b> to 35 1/8" of flat floor inside the curb &mdash; the whole move window F's casing allows, and the same
+        number whichever wall absorbed the field 2 3/8". Drawn with the two Kohler Essential mirrors and Artifacts sconces she picked; a Mirrors switch shows the one-wide-mirror alternative. Toilet, window and drains stay put. Orange marks
+        the assumptions; the Plan view carries every code clearance as a dimension, and <b>Plumbing rough-in</b> is a Show layer of its own for the plumber.</p>
+        <span class="meta">Updated 2026-09-13 &middot; 8 camera views &middot; layout option, not yet chosen &middot; not engineered</span>
         <div class="chips">
           <a class="open" href="main-bath-option-1.html">Open drawing</a>
           <a href="main-bath-option-1.html?view=door&amp;show=wallS,wallE&amp;hide=context">From the door</a>
           <a href="main-bath-option-1.html?view=overview&amp;show=label,dim">Cutaway + notes</a>
           <a href="main-bath-option-1.html?view=shower&amp;show=wallS,wallE&amp;hide=context">Shower</a>
           <a href="main-bath-option-1.html?view=top&amp;show=dim,wallS,wallE&amp;hide=ceiling,context">Plan + clearances</a>
+          <a href="main-bath-option-1.html?view=top&amp;show=plumb&amp;hide=ceiling,context,vanity,fixtures">For the plumber</a>
           <a href="main-bath-option-1.html?view=vanity&amp;show=mirOne,wallS,wallE&amp;hide=context">One wide mirror</a>
           <a href="main-bath.html?view=door&amp;show=wallS,wallE,ceiling&amp;hide=context">Compare: as drawn</a>
         </div>
